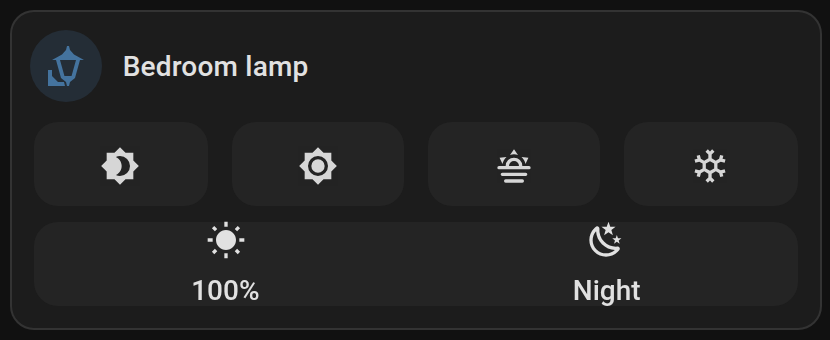
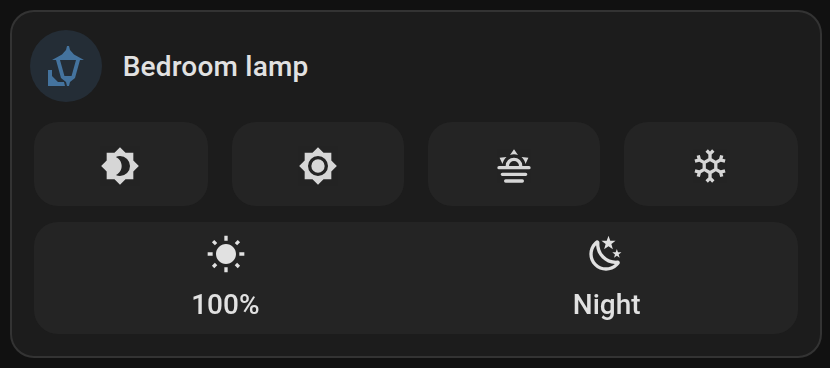
Give the preset row the height its labels need
42px is what a stock feature gives its selector, and it is meant for bare
icons — the climate modes hide their labels to fit in it. With names under the
icons the option is an icon, a line of text and the padding around both: 53px
of content in a 42px row, clipped along the bottom edge. The row now grows to
56px when it carries labels, and the card asks the grid for the height to
match.

Measured rather than guessed: the option's content is 53px against a host of
56.

diff --git a/cards/src/cards/lamp-tile.ts b/cards/src/cards/lamp-tile.ts
@@ -112,6 +112,16 @@ export class HorosLampTile extends BaseTileCard {
         --control-select-border-radius: 12px;
         --control-select-button-border-radius: 12px;
       }
+
+      /*
+       * 42px is the height a stock feature gives its selector, and it is meant
+       * for bare icons: the climate modes hide their labels to fit. With names
+       * under the icons the option needs the icon, the line of text and the
+       * padding around both, so the row grows instead of clipping them.
+       */
+      .lamp-controls.labelled ha-control-select {
+        --control-select-thickness: 56px;
+      }
     `,
   ];
 
@@ -130,11 +140,15 @@ export class HorosLampTile extends BaseTileCard {
   protected override contentRows(): number {
     const config = this._config;
     if (!config) return 0;
-    const rows =
-      (STEPS.some(({ key }) => config[key]) ? 1 : 0) +
-      (config.presets?.length ? 1 : 0);
-    // Every row of controls is about half a grid row tall.
-    return Math.ceil(rows / 2);
+    // A row of controls is about half a grid row; the presets take more when
+    // they carry names, because the option is then an icon above a line.
+    const steps = STEPS.some(({ key }) => config[key]) ? 0.5 : 0;
+    const presets = config.presets?.length
+      ? config.preset_labels === false
+        ? 0.5
+        : 0.75
+      : 0;
+    return Math.ceil(steps + presets);
   }
 
   public static async getConfigElement(): Promise<LovelaceCardEditor> {
@@ -281,7 +295,12 @@ export class HorosLampTile extends BaseTileCard {
           ? [{ type: "light-brightness" }]
           : undefined,
       customFeatures: this._controlsReady
-        ? html`<div class="lamp-controls">
+        ? html`<div
+            class="lamp-controls ${config.presets?.length &&
+            config.preset_labels !== false
+              ? "labelled"
+              : ""}"
+          >
             ${this._renderSteps(config)}${this._renderPresets(config)}
           </div>`
         : undefined,

diff --git a/dist/ha-plugins-cards.js b/dist/ha-plugins-cards.js
@@ -3772,6 +3772,16 @@ class nt extends $ {
         --control-select-border-radius: 12px;
         --control-select-button-border-radius: 12px;
       }
+
+      /*
+       * 42px is the height a stock feature gives its selector, and it is meant
+       * for bare icons: the climate modes hide their labels to fit. With names
+       * under the icons the option needs the icon, the line of text and the
+       * padding around both, so the row grows instead of clipping them.
+       */
+      .lamp-controls.labelled ha-control-select {
+        --control-select-thickness: 56px;
+      }
     `
     ];
   }
@@ -3783,8 +3793,8 @@ class nt extends $ {
   contentRows() {
     const e = this._config;
     if (!e) return 0;
-    const t = (We.some(({ key: r }) => e[r]) ? 1 : 0) + (e.presets?.length ? 1 : 0);
-    return Math.ceil(t / 2);
+    const t = We.some(({ key: n }) => e[n]) ? 0.5 : 0, r = e.presets?.length ? e.preset_labels === !1 ? 0.5 : 0.75 : 0;
+    return Math.ceil(t + r);
   }
   static async getConfigElement() {
     return await Promise.resolve().then(() => Ai), document.createElement(
@@ -3885,7 +3895,9 @@ class nt extends $ {
       ]),
       // A real light keeps its stock slider: nothing we draw beats it.
       ownFeatures: i && e.brightness !== !1 ? [{ type: "light-brightness" }] : void 0,
-      customFeatures: this._controlsReady ? _`<div class="lamp-controls">
+      customFeatures: this._controlsReady ? _`<div
+            class="lamp-controls ${e.presets?.length && e.preset_labels !== !1 ? "labelled" : ""}"
+          >
             ${this._renderSteps(e)}${this._renderPresets(e)}
           </div>` : void 0
     });
@@ -3907,7 +3919,7 @@ E("horos-lamp-tile", nt, {
   preview: !0
 });
 console.info(
-  "%c HOROS-CARDS %c 0.3.0 ",
+  "%c HOROS-CARDS %c 0.3.1 ",
   "background:#03a9f4;color:#fff;border-radius:3px 0 0 3px;padding:2px 4px",
   "background:#555;color:#fff;border-radius:0 3px 3px 0;padding:2px 4px"
 );

diff --git a/cards/src/main.ts b/cards/src/main.ts
@@ -28,7 +28,7 @@ import "./cards/lamp-tile";
 
 // eslint-disable-next-line no-console
 console.info(
-  "%c HOROS-CARDS %c 0.3.0 ",
+  "%c HOROS-CARDS %c 0.3.1 ",
   "background:#03a9f4;color:#fff;border-radius:3px 0 0 3px;padding:2px 4px",
   "background:#555;color:#fff;border-radius:0 3px 3px 0;padding:2px 4px"
 );
